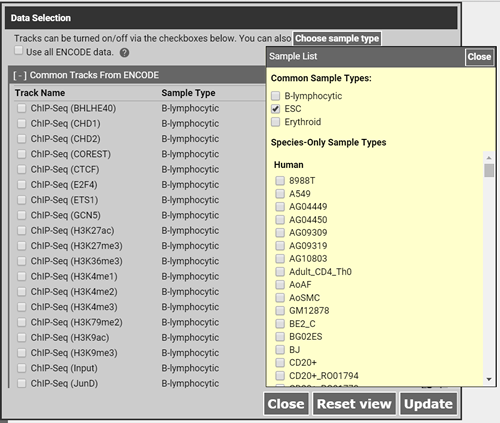
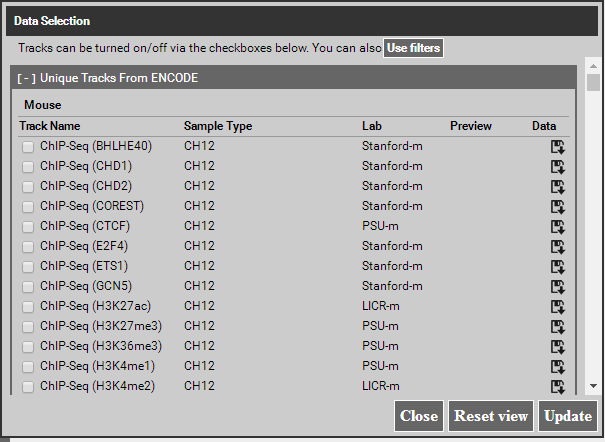
Updated manual and fixed some styling issue

diff --git a/html/cpbrowser/js/libtracks.js b/html/cpbrowser/js/libtracks.js
@@ -558,11 +558,11 @@ TrackBundle.prototype.length = function() {
 	return this.array.length;
 };
 
-TrackBundle.prototype.setCheckBox = function(track, flag) {
+TrackBundle.prototype.setCheckBox = function(track, flag, db) {
 	// set the checkbox of the track, and track.status as well
 	try{
 		track.status = flag;
-		document.getElementById(this.IDPrefix
+		document.getElementById((db? db + '_': '') + this.IDPrefix
 			+ track.getCleanID() + this.IDPostfix).checked = flag;
 		return true;
 	} catch(e) {
@@ -570,52 +570,52 @@ TrackBundle.prototype.setCheckBox = function(track, flag) {
 	}
 };
 
-TrackBundle.prototype.setCheckBoxFromID = function(trackID, flag) {
+TrackBundle.prototype.setCheckBoxFromID = function(trackID, flag, db) {
 	try{
-		return this.setCheckBox(this.get(trackID), flag);
+		return this.setCheckBox(this.get(trackID), flag, db);
 	} catch(e) {
 		return false;
 	}
 };
 
-TrackBundle.prototype.setCheckBoxFromTableName = function(tableName, flag) {
-	return this.setCheckBox(this.reverseLookUpMap[tableName], flag);
+TrackBundle.prototype.setCheckBoxFromTableName = function(tableName, flag, db) {
+	return this.setCheckBox(this.reverseLookUpMap[tableName], flag, db);
 };
 
-TrackBundle.prototype.setAll = function(flag) {
+TrackBundle.prototype.setAll = function(flag, db) {
 	flag = flag || false;
 	for(var i = 0; i < this.length(); i++) {
-		this.setCheckBox(this.get(i), flag);
+		this.setCheckBox(this.get(i), flag, db);
 	}
 	return false;
 };
 
-TrackBundle.prototype.setListOnly = function(tableNameList) {
+TrackBundle.prototype.setListOnly = function(tableNameList, db) {
 	// tableNameList is the array of table names;
 	// tableNames other than the ones in the bundle can be included with no effect
-	this.setAll(false);
+	this.setAll(false, db);
 	for(var i = 0; i < tableNameList.length; i++) {
-		this.setCheckBoxFromTableName(tableNameList[i], true);
+		this.setCheckBoxFromTableName(tableNameList[i], true, db);
 	}
 	return true;
 }
 
-TrackBundle.prototype.setIDListOnly = function(IDList) {
+TrackBundle.prototype.setIDListOnly = function(IDList, db) {
 	// tableNameList is the array of table names;
 	// tableNames other than the ones in the bundle can be included with no effect
-	this.setAll(false);
+	this.setAll(false, db);
 	for(var i = 0; i < IDList.length; i++) {
-		this.setCheckBoxFromID(IDList[i], true);
+		this.setCheckBoxFromID(IDList[i], true, db);
 	}
 	return true;
 }
 
-TrackBundle.prototype.getIDList = function(returnall) {
+TrackBundle.prototype.getIDList = function(returnall, db) {
 	returnall = returnall || false;
 	var result = Array();
 	$.each(this.array, function(key, value) {
 		// first, use getdownload.php to get all the tableNames
-		if($('#' + value.getCleanID()).prop('checked') || returnall) {
+		if($('#' + (db? db + '_': '') + value.getCleanID()).prop('checked') || returnall) {
 			result.push(value.id);
 		}
 	});

diff --git a/html/cpbrowser/components/genemo_components/genemo-track-filter/genemo-track-filter-pages.html b/html/cpbrowser/components/genemo_components/genemo-track-filter/genemo-track-filter-pages.html
@@ -2,6 +2,7 @@
 <link rel="import" href="../../bower_components/paper-checkbox/paper-checkbox.html">
 <link rel="import" href="../../bower_components/paper-tabs/paper-tabs.html">
 <link rel="import" href="../../bower_components/iron-pages/iron-pages.html">
+<link rel="import" href="../genemo-styles.html">
 
 <dom-module id="genemo-track-filter-pages">
   <template>
@@ -16,14 +17,20 @@
 		iron-pages > div {
 			height: 300px;
 			overflow-y: auto;
+			margin: 5px 0;
 		}
 		paper-checkbox {
 			width: 150px;
 			margin: 0.3em;
 			overflow: hidden;
 		}
+		paper-tabs {
+			--paper-tabs: {
+				background: var(--light-primary-color);
+			};
+		}
 	</style>
-    <paper-tabs selected="{{selectedTab}}">
+    <paper-tabs id="mainTabs" selected="{{selectedTab}}">
       <paper-tab>Experiment</paper-tab>
       <paper-tab>Tissue</paper-tab>
       <paper-tab>Cell Line</paper-tab>

diff --git a/html/cpbrowser/components/genemo_components/genemo-track-filter/genemo-track-filter.html b/html/cpbrowser/components/genemo_components/genemo-track-filter/genemo-track-filter.html
@@ -4,6 +4,7 @@
 <link rel="import" href="../../bower_components/paper-tooltip/paper-tooltip.html">
 <link rel="import" href="../../bower_components/neon-animation/neon-animations.html">
 <link rel="import" href="../../bower_components/neon-animation/neon-animation-runner-behavior.html">
+<link rel="import" href="../genemo-styles.html">
 
 <dom-module id="genemo-track-filter">
   <template>
@@ -25,6 +26,7 @@
 		paper-card {
 			height: 100%;
 			padding-bottom: 1em;
+			--paper-card-header-color: var(--text-primary-color);
 		}
 	</style>
     <paper-card heading="Filter tracks">
@@ -81,6 +83,7 @@
 			if(this.$.mainPage.initialized) {
 				this.opened = true;
 				this.style.display = 'block';
+				this.$.mainPage.$.mainTabs.notifyResize();
 				this.playAnimation('entry');
 			} else {
 				this.fire('alert', { msg: 'Filter has not been initialized yet.' });

diff --git a/html/cpbrowser/components/genemo_components/genemo-styles.html b/html/cpbrowser/components/genemo_components/genemo-styles.html
@@ -9,13 +9,19 @@
 			--default-primary-color: #3F51B5;
 			--light-primary-color: #C5CAE9;
 			--text-primary-color: #ffffff; /*text/icons*/
-			--accent-color: #FF4081;
+			--accent-color: #FFAB40;
 			--primary-background-color: #eaeaea;
 			--primary-text-color: #212121;
 			--secondary-text-color: #727272;
 			--disabled-text-color: #bdbdbd;
 			--divider-color: #B6B6B6;
 			--card-background-color: #F5F5F5;
+		}
+		
+		paper-button {
+			background: var(--card-background-color);
+			font-family: 'Roboto', Arial, Helvetica, sans-serif;
+			line-height: 1.2em;
 		}
 		
 		paper-button[raised].colored {
@@ -161,11 +167,6 @@
 		}
 		
 		.vertTextBottomContainer > * {
-			display: table-cell;
-			vertical-align: middle;
-		}
-	
-		.vertTextBottomContainer > paper-button {
 			display: table-cell;
 			vertical-align: middle;
 		}

diff --git a/html/cpbrowser/js/uploadui.js b/html/cpbrowser/js/uploadui.js
@@ -162,9 +162,9 @@ function validateUploadFileOrURL(event) {
 	
 	if(querycard.SearchRange) {
 		
-		tableNameQuery.append('chrom', querycard.SearchRange.split(/[:\-]/g)[0]);
-		tableNameQuery.append('start', parseInt(querycard.SearchRange.split(/[:\-]/g)[1]));
-		tableNameQuery.append('end',parseInt(querycard.SearchRange.split(/[:\-]/g)[2]));
+		tableNameQuery.append('chrom', querycard.SearchRange.split(/[\s:\-]+/g)[0]);
+		tableNameQuery.append('start', parseInt(querycard.SearchRange.split(/[\s:\-]+/g)[1]));
+		tableNameQuery.append('end', parseInt(querycard.SearchRange.split(/[\s:\-]+/g)[2]));
 	}
 
 	trackUpdatedCallback.data = event;

diff --git a/html/cpbrowser/js/navui.js b/html/cpbrowser/js/navui.js
@@ -38,7 +38,7 @@ function updateNavigation(geneInList, spcarray, cmntracksencode, setpeakfunc) {
 			
 			if($('#' + formid + spcarray[spcIndex].db + 'Filter').prop('checked')) {
 				needToUpdateTracks = true;
-				cmntracksencode.setListOnly(currSpcRegion.data['track']);
+				cmntracksencode.setListOnly(currSpcRegion.data['track'], genemoIsOn? spcarray[spcIndex].db: null);
 				spcarray[spcIndex].uniTracksEncode.setListOnly(currSpcRegion.data['track']);
 				if(setpeakfunc) {
 					setpeakfunc(spcIndex, currSpcRegion.data['track']);

diff --git a/html/cpbrowser/components/genemo_components/genemo-card/genemo-card.html b/html/cpbrowser/components/genemo_components/genemo-card/genemo-card.html
@@ -73,7 +73,7 @@
 			},
 			expandIcon: {
 				type: String,
-				value: 'expand-less'
+				value: 'expand-more'
 			}
 		},
 		
@@ -112,7 +112,7 @@
 				// un-collapse, send signal for all collapse groups
 				this.fire('iron-signal', {name: 'collapse', data: {flag: false, group: this.collapseGroup}});
 			}
-			this.expandIcon = newValue? 'expand-less': 'expand-more';
+			this.expandIcon = newValue? 'expand-more': 'chevron-right';
 			this.toggleCollapseHeader(newValue);
 			this.enableSignal = true;
 		},

diff --git a/html/cpbrowser/components/genemo_components/search-card-content/search-card-content.html b/html/cpbrowser/components/genemo_components/search-card-content/search-card-content.html
@@ -38,8 +38,8 @@
 		
 		/************************** Polymer and Material Design components below *********************/
 		
-		.vertCenterContainer > paper-dropdown-menu {
-			padding-top: 0;
+		.vertTextBottomContainer > paper-dropdown-menu {
+			padding: 0 0.4em 0 0.15em;
 		}
 		
 		.vertMargined {

diff --git a/html/cpbrowser/js/sessionControl.js b/html/cpbrowser/js/sessionControl.js
@@ -1,5 +1,5 @@
 function loadSelectedTrackIDs(db, IDList) {
-	cmnTracksEncode.setIDListOnly(IDList);
+	cmnTracksEncode.setIDListOnly(IDList, genemoIsOn? db: null);
 	spcArray[spcArray.map[db]].uniTracksEncode.setIDListOnly(IDList);
 }
 

diff --git a/html/cpbrowser/manual_genemo.php b/html/cpbrowser/manual_genemo.php
@@ -79,6 +79,7 @@ body {
       <li><a href="#input">Select Input Data</a></li>
       <li><a href="#dataSelect">Choose Epigenetic Data Sets to Search</a></li>
       <li><a href="#output">Visualizing Output</a></li>
+      <li><a href="#export">Exporting Results for Other Tools</a></li>
     </ul>
   </li>
   <li class="style2"><a href="#contact">Contact Us</a></li>
@@ -132,22 +133,37 @@ body {
 <div class="Header2 clearFix"><a href="#top"><div class="floatRight"><core-icon class="smallInline" icon="arrow-drop-up" alt="up to index"></core-icon> Index</div>
 </a><a name="dataSelect" id="dataSelect"></a>Choose Epigenetic Data Sets to Search</div>
 <p class="normaltext">GENEMO Search incorporated all data sets from ENCODE project as potential search targets. To choose the specific data sets you would like to search, you can click <span class="paper-button-text">Data selection</span> to open the <span class="panel">data selection</span> panel.</p>
-<p class="inlineImage"><img src="images/Figure_3_DataSelection.png" width="500" height="423" alt="Data Selection" /><br />
-<span class="panel">Figure 3</span> Data selection panel. Three different methods to select the data for comparison are shown.</p>
-<p class="normaltext">To select the specific data sets for comparison, you can use a combination of three methods:</p>
+<p class="inlineImage"><img src="images/Figure_3_DataSelection.png" width="605" height="442" alt=""/><br />
+<span class="panel">Figure 3</span> Data selection panel.</p>
+<p class="normaltext">To select the specific data sets for comparison, you can use a combination of two methods:</p>
 <ul class="normalnotes">
   <li>Select ENCODE data sets individually with the checkboxes in the list;</li>
-  <li>Use <strong>Choose sample type</strong> to open the <span class="panel">Sample list</span> panel, and choose data sets by sample type;</li>
-  <li>Check &quot;Use all ENCODE data&quot; to select all data sets for searching. (NOTE: the computation time will be quite significant if this checkbox is checked, so providing an email address is strongly recommended.)</li>
+  <li>Use the built-in filter (explained below).</li>
 </ul>
 <p class="normaltext">Epigenetic signals in ES cells (H1 in human, E14 in mouse) are selected by default.</p>
+<p class="normaltext">To filter data sets by specific criteria, click <span class="panel">use filter</span> to bring out the filter panel, in this panel you can specify what type of criteria to use (by experiment, by tissue type, by cell line, or by lab), and perform one of the three operations on currently selected items:</p>
+<ul class="normalnotes">
+  <li><span class="panel">Add</span> to current selection: tracks matching given criteria will be added to the current selection (tracks already selected will not be affected);</li>
+  <li><span class="panel">Filter</span> current selection: currently selected tracks will be deselected (filtered) if they do not match given criteria (unselected tracks  will not be affected);</li>
+  <li><span class="panel">Exclude</span> from current selection: currently selected tracks will be deselected if they match given criteria (unselected tracks  will not be affected).</li>
+  <li><span class="panel">Select all</span> and <span class="panel">select none</span> can be used to select all or deselect all criteria from the current page.</li>
+</ul>
+<p class="normaltext"></p>
+<p class="inlineImage"><img src="images/Figure_4_Filter.png" width="447" height="400" alt=""/><br />
+  <span class="panel">Figure 4</span> Filter panel.</p>
+<p class="normaltext"></p>
 <div class="Header2 clearFix"><a href="#top"><div class="floatRight"><core-icon class="smallInline" icon="arrow-drop-up" alt="up to index"></core-icon> Index</div></a><a name="output" id="output"></a>Visualizing Output</div>
-<p class="normaltext">The output includes the<span class="panel">Gene / Region Selection</span>, <span class="panel">Navigation</span> and <span class="panel">Visualization</span> panels (see Figure 4 below). After the calculation is complete, the resulting gene regions will be shown in the <span class="panel">Gene / Region Selection</span> panel. The results will be ordered according to  scores obtained by the algorithm. Select the Visualize button for any one result to visualize it in the <span class="panel">Visualization</span> panel.</p>
+<p class="normaltext">The output includes the <span class="panel">Gene / Region Selection</span>, <span class="panel">Navigation</span> and <span class="panel">Visualization</span> panels (see Figure 4 below). After the calculation is complete, the resulting gene regions will be shown in the <span class="panel">Gene / Region Selection</span> panel. The results will be ordered according to  scores obtained by the algorithm. Select the Visualize button for any one result to visualize it in the <span class="panel">Visualization</span> panel.</p>
 <p class="normaltext">The&nbsp;<span class="panel">Navigation</span>&nbsp;panel  is provided to navigate through the selected gene region. There are  two types of controls in the navigation panel: sliding controls that enable the user to  slide to the upstream/downstream regions of the current view, and zooming controls that allow the user to zoom in/out a certain part of the genome.</p>
 <p class="inlineImage"><img src="images/Figure_4_UI.png" alt="GENEMO Search Goals" width="600" height="293" /><br />
-<span class="panel">Figure 4</span> This example of the output  shows the result from the input file. The <span class="panel">Input file </span>Panel (collapsed), <span class="panel">Gene / Region Selection</span> Panel, <span class="panel">Navigation</span> Panel and <span class="panel">Visualization</span> Panel are shown.</p>
+<span class="panel">Figure 5</span> This example of the output  shows the result from the input file. The <span class="panel">Input file </span>Panel (collapsed), <span class="panel">Gene / Region Selection</span> Panel, <span class="panel">Navigation</span> Panel and <span class="panel">Visualization</span> Panel are shown.</p>
 <div style="clear: both;"></div>
-
+<div class="Header2 clearFix"><a href="#top"><div class="floatRight"><core-icon class="smallInline" icon="arrow-drop-up" alt="up to index"></core-icon> Index</div>
+</a><a name="export" id="export"></a>Exporting Results for Other Tools</div>
+<p class="normaltext">By clicking [Export BED file] in the Results panel, the output regions can be exported into a BED file to be used as input for other tools, such as GREAT (<a href="http://bejerano.stanford.edu/great/public/html/">http://bejerano.stanford.edu/great/public/html/</a>).</p>
+<p class="inlineImage"><img src="images/Figure_6_export.png" alt="GENEMO Search Goals" width="275" height="129" /><br />
+<span class="panel">Figure 6</span> The [Export BED file] link</p>
+<div style="clear: both;"></div>
 <div class="Header1 clearFix"><a href="#top"><div class="floatRight"><core-icon class="smallInline" icon="arrow-drop-up" alt="up to index"></core-icon> Index</div></a><a name="contact" id="intro9"></a>Contact Us</div>
 <p class="normaltext">If you have any questions or comments regarding to GENEMO Search, you may contact us by sending an email to Xiaoyi Cao (<a href='mailt&#111;&#58;x9%&#54;3%61o&#37;&#52;0%&#55;5&#99;s&#100;&#46;ed&#117;'>x9cao <strong>at</strong> ucsd <strong>dot</strong> edu</a>). </p>
 <div class="Header1 clearFix"><a href="#top"><div class="floatRight"><core-icon class="smallInline" icon="arrow-drop-up" alt="up to index"></core-icon> Index</div></a><a name="reference" id="intro7"></a>References</div>

diff --git a/html/index.php b/html/index.php
@@ -87,6 +87,10 @@ body {
 	height: 100%;
 	overflow: hidden;
 }
+paper-button#manualBtn {
+	font-size: 14px;
+	margin: 0.5em 0;
+}
 -->
 </style>
 <script type="text/javascript">
